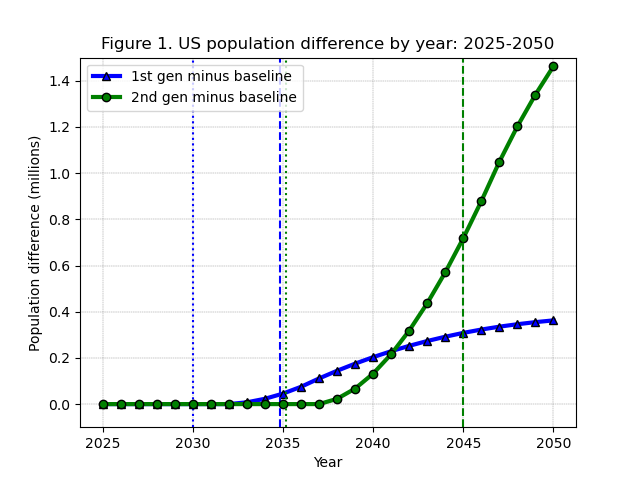
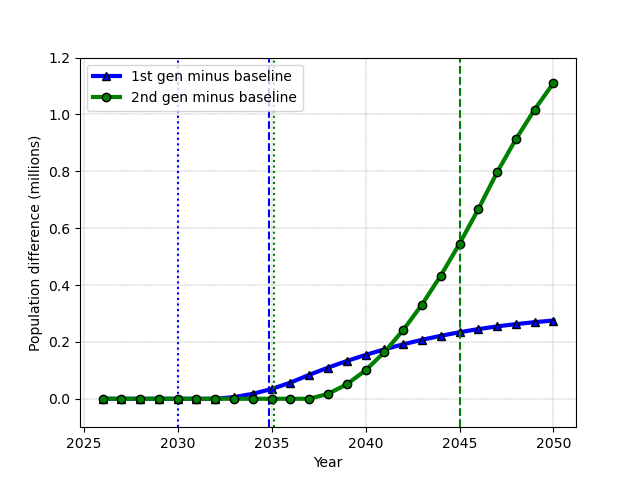
Updated figure 1 code and image

diff --git a/Results/figures.py b/Results/figures.py
@@ -7,7 +7,9 @@ Hendrix, Richard W. Evans, and Jason DeBacker
 import os
 import pickle
 import numpy as np
+import pandas as pd
 import matplotlib.pyplot as plt
+from ogcore.demographics import get_pop
 
 # Set paths
 script_dir = os.path.dirname(os.path.abspath(__file__))
@@ -16,21 +18,17 @@ main_dir = os.path.join(
     "SimulationCode/simulation_results/MacroAgingNatureSimulations/"
 )
 images_dir = os.path.join(script_dir, "images")
-# print("Script directory:")
-# print(script_dir)
-# print("")
-# print("Main directory:")
-# print(main_dir)
-# print("")
-# print("Images directory:")
-# print(images_dir)
 
 """
 -------------------------------------------------------------------------------
 Create Figure 1: US population difference by year: 2025-2050
 -------------------------------------------------------------------------------
 """
-years1 = np.arange(2025, 2051)
+end_year = 2050
+p_base = pickle.load(
+    open(os.path.join(main_dir, "baseline", "model_params.pkl"), "rb")
+)
+years1 = np.arange(p_base.start_year, end_year + 1)
 T1 = len(years1)
 # Read in baseline population time path from model output
 (
@@ -41,91 +39,83 @@ T1 = len(years1)
     pop_dist_base_TP,
     pre_pop_dist_base
 ) = pickle.load(open(os.path.join(main_dir, "demog_vars_baseline.pkl"), "rb"))
-tot_pop_2025 = pop_dist_base_TP[0, :].sum()
-print(f"pop_dist_base_TP[0, :] length is {len(pop_dist_base_TP[0, :])}.")
-print(f"tot_pop_2025 is {tot_pop_2025}.")
+# Create time series for basline population from 2025 to 2050
+base_pop_full_path, _ = get_pop(
+    E=20,
+    S=80,
+    min_age=0,
+    max_age=99,
+    infer_pop=True,
+    fert_rates=fert_rates_base_TP,
+    mort_rates=mort_rates_base_TP,
+    infmort_rates=infmort_rates_base_TP,
+    imm_rates=imm_rates_base_TP,
+    initial_pop=pop_dist_base_TP[0, :],
+    pre_pop_dist=pre_pop_dist_base,
+    start_year=p_base.start_year,
+    end_year=end_year,
+    download_path=None,
+)
+tot_pop_2025_2050_base = base_pop_full_path.sum(axis=1)
 
-# tot_pop_2025_2050_base = np.zeros(T1)
-# tot_pop_2025_2050_base[0] = tot_pop_2025
+# Get total population time series from 2025 to 2050 for 1st-gen and 2nd-gen
+# scenarios
+tot_pop_2025_2050_1gen = pd.read_csv(
+    os.path.join(
+        main_dir, "1st_gen/demographic_data", "population_distribution.csv"
+    ), header=None
+).sum(axis=1).to_numpy()[:T1]
 
-# tot_pop_2025_2050_1gen = np.zeros(T1)
-# tot_pop_2025_2050_1gen[0] = tot_pop_2025
+tot_pop_2025_2050_2gen = pd.read_csv(
+    os.path.join(
+        main_dir, "2nd_gen/demographic_data", "population_distribution.csv"
+    ), header=None
+).sum(axis=1).to_numpy()[:T1]
 
-# tot_pop_2025_2050_2gen = np.zeros(T1)
-# tot_pop_2025_2050_2gen[0] = tot_pop_2025
+print(
+    f"1st-gen population change relative to baseline in 2050 " +
+    f"is {tot_pop_2025_2050_1gen[-1] - tot_pop_2025_2050_base[-1]:,.0f}."
+)
+print(
+    f"2nd-gen population change relative to baseline in 2050 " +
+    f"is {tot_pop_2025_2050_2gen[-1] - tot_pop_2025_2050_base[-1]:,.0f}."
+)
 
-# p_base = pickle.load(
-#     open(os.path.join(main_dir, "baseline", "model_params.pkl"), "rb")
-# )
-# g_n_vec_base = p_base.g_n
-# p_1gen = pickle.load(
-#     open(os.path.join(main_dir, "1st_gen", "model_params.pkl"), "rb")
-# )
-# g_n_vec_1gen = p_1gen.g_n
-# p_2gen = pickle.load(
-#     open(os.path.join(main_dir, "2nd_gen", "model_params.pkl"), "rb")
-# )
-# g_n_vec_2gen = p_2gen.g_n
-# for t in range(1, T1):
-#     tot_pop_2025_2050_base[t] = (
-#         (1 + g_n_vec_base[t - 1]) * tot_pop_2025_2050_base[t - 1]
-#     )
-#     tot_pop_2025_2050_1gen[t] = (
-#         (1 + g_n_vec_1gen[t - 1]) * tot_pop_2025_2050_1gen[t - 1]
-#     )
-#     tot_pop_2025_2050_2gen[t] = (
-#         (1 + g_n_vec_2gen[t - 1]) * tot_pop_2025_2050_2gen[t - 1]
-#     )
-
-# # Put time series in millions of people
-# tot_pop_2025_2050_base = tot_pop_2025_2050_base / 1e6
-# tot_pop_2025_2050_1gen = tot_pop_2025_2050_1gen / 1e6
-# tot_pop_2025_2050_2gen = tot_pop_2025_2050_2gen / 1e6
-
-# fig1, ax1= plt.subplots()
-# ax1.plot(
-#     years1, tot_pop_2025_2050_1gen - tot_pop_2025_2050_base, linestyle='-',
-#     color='blue', marker='^', markeredgecolor='black', linewidth=3,
-#     label='1st gen minus baseline'
-# )
-# ax1.vlines(
-#     x=2030, ymin=-0.1, ymax=1.5, color='blue', linestyle=':',
-#     # label="2030 begin effective year, 1st gen"
-# )
-# ax1.vlines(
-#     x=2034.85, ymin=-0.1, ymax=1.5, color='blue', linestyle='--',
-#     # label="2035 full effective year, 1st gen"
-# )
-# ax1.plot(
-#     years1, tot_pop_2025_2050_2gen - tot_pop_2025_2050_base, linestyle='-',
-#     color='green', marker='o', markeredgecolor='black', linewidth=3,
-#     label='2nd gen minus baseline'
-# )
-# ax1.vlines(
-#     x=2035.15, ymin=-0.1, ymax=1.5, color='green', linestyle=':',
-#     # label="2035 begin effective year, 2nd gen"
-# )
-# ax1.vlines(
-#     x=2045, ymin=-0.1, ymax=1.5, color='green', linestyle='--',
-#     # label="2045 full effective year, 2nd gen"
-# )
-# plt.grid(
-#     visible=True, which='major', axis='both', color='0.5', linestyle='--',
-#     linewidth=0.3
-# )
-# plt.ylim(-0.1, 1.5)
-# plt.xlabel("Year")
-# plt.ylabel("Population difference (millions)")
-# plt.legend()
+fig1, ax1= plt.subplots()
+ax1.plot(
+    years1, (tot_pop_2025_2050_1gen - tot_pop_2025_2050_base)/1e6,
+    linestyle='-', linewidth=3, color='blue', marker='^',
+    markeredgecolor='black', label='1st gen minus baseline'
+)
+ax1.vlines(
+    x=2030, ymin=-0.1, ymax=1.5, color='blue', linestyle=':',
+    # label="2030 begin effective year, 1st gen"
+)
+ax1.vlines(
+    x=2034.85, ymin=-0.1, ymax=1.5, color='blue', linestyle='--',
+    # label="2035 full effective year, 1st gen"
+)
+ax1.plot(
+    years1, (tot_pop_2025_2050_2gen - tot_pop_2025_2050_base)/1e6,
+    linestyle='-', linewidth=3, color='green', marker='o',
+    markeredgecolor='black', label='2nd gen minus baseline'
+)
+ax1.vlines(
+    x=2035.15, ymin=-0.1, ymax=1.5, color='green', linestyle=':',
+    # label="2035 begin effective year, 2nd gen"
+)
+ax1.vlines(
+    x=2045, ymin=-0.1, ymax=1.5, color='green', linestyle='--',
+    # label="2045 full effective year, 2nd gen"
+)
+plt.grid(
+    visible=True, which='major', axis='both', color='0.5', linestyle='--',
+    linewidth=0.3
+)
+plt.ylim(-0.1, 1.2)
+plt.xlabel("Year")
+plt.ylabel("Population difference (millions)")
+plt.legend()
 # plt.title("Figure 1. US population difference by year: 2025-2050")
-# plt.savefig(os.path.join(images_dir, "us_popdiff_2nd1stgen.png"))
-# plt.show()
-
-# print(
-#     f"1st-gen population change relative to baseline in 2050 " +
-#     f"is {tot_pop_2025_2050_1gen[-1] - tot_pop_2025_2050_base[-1]}."
-# )
-# print(
-#     f"2nd-gen population change relative to baseline in 2050 " +
-#     f"is {tot_pop_2025_2050_2gen[-1] - tot_pop_2025_2050_base[-1]}."
-# )
+plt.savefig(os.path.join(images_dir, "us_popdiff_2nd1stgen.png"))
+plt.show()
